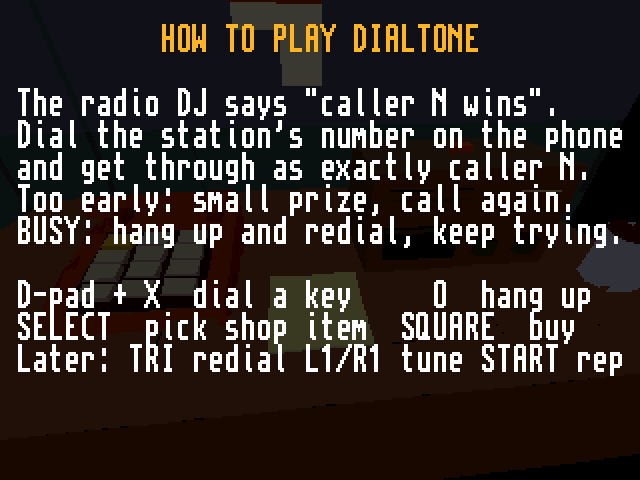
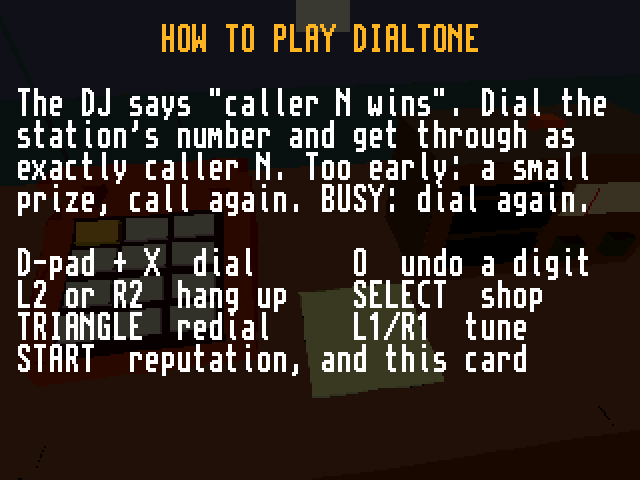
Shop panel clear of the toast row; manual and screenshots for the new layout

diff --git a/src/phone_scene.cpp b/src/phone_scene.cpp
@@ -57,8 +57,9 @@ static constexpr uint8_t ROW_COUNT = ROW_INTRO + INTRO_ROWS;
 // The toast row moves up above line 2 once there is one
 static constexpr int16_t c_rowY[ROW_INTRO] = {12, 28, 44, 208, 192, 192, 98, 114};
 static constexpr int16_t TOAST_Y_TWO_LINES = 176;
-static constexpr uint8_t SHOP_FIRST_ROW = ROW_INTRO + 4, SHOP_ROWS = 6; // y 76..156
-static constexpr int16_t SHOP_BAND_Y = 72, SHOP_BAND_H = 104;
+// a title, one row per entry and the next goal: y 60..156, clear of the toast at 176
+static constexpr uint8_t SHOP_FIRST_ROW = ROW_INTRO + 3;
+static constexpr int16_t SHOP_BAND_Y = 58, SHOP_BAND_H = 116;
 
 static constexpr int16_t TOP_BAND_H = 64, BANNER_Y = 92, BANNER_H = 42;
 static constexpr psyqo::Color c_ink = {.r = 40, .g = 20, .b = 12};
@@ -562,7 +563,9 @@ void PhoneScene::UpdateLineRow(uint8_t index) {
 	uint8_t row = index == 0 ? ROW_LINE1 : ROW_LINE2;
 	bool blink = m_flashTimer & 16;
 	char number[12];
-	FormatNumber(number, line.digits, line.digitCount);
+	// a line put down shows a blank number, whatever was half dialed on it
+	bool blank = line.state == LineState::Idle && line.outcome == Outcome::None;
+	FormatNumber(number, line.digits, blank ? 0 : line.digitCount);
 	// with one phone the number speaks for itself; with two, say which line
 	char label[4] = "";
 	if (m_sim.HasUpgrade(Upgrade::SecondLine)) {
@@ -921,7 +924,9 @@ void PhoneScene::frame() {
 			UpdateMenu();
 		}
 	} else {
-		DrawKeyDigits();
+		if (!m_shopOpen) {
+			DrawKeyDigits();
+		}
 		// the bottom band grows with what is in it: line 1, line 2 once bought, a toast while it lasts
 		bool twoLines = m_sim.HasUpgrade(Upgrade::SecondLine);
 		int16_t bottom = c_rowY[ROW_LINE1];

diff --git a/docs/manual.md b/docs/manual.md
@@ -13,17 +13,21 @@ move to a new area code and start over with a reputation.
 | --- | --- |
 | D-pad | move over the keypad |
 | X | dial the key under the cursor |
-| O | hang up every line that is dialing, ringing or busy |
+| O | take back the last digit you dialed |
+| L2 or R2 | hang up every line that is dialing, ringing or busy |
 | Triangle | redial the station (once you own the redial button) |
-| Select | step through the shop |
-| Square | buy what the shop row shows |
+| Select | open and close the shop |
 | L1 / R1 | tune the radio down / up (stations you have opened) |
 | START | the Reputation screen; it also closes the how-to-play card |
 
+The screen shows no button hints while you play; the card above has them, and "How to play" on
+the Reputation screen brings it back.
+
 ## A contest
 
-The top of the screen is the radio. `WANTS #6  SO FAR 2  $16  19s` means the DJ wants caller
-6, two people have got through, the prize is $16 and the contest closes in 19 seconds. Other
+The top of the screen is the radio. The first row is your cash and the number to call, the second
+is the DJ (who says the prize), and `Caller #6 wins   so far 2   19s` means the DJ wants caller 6,
+two people have got through and the contest closes in 19 seconds. Other
 listeners call in too, and every one of them who gets through moves the count on. If one of them
 reaches the number, they win and the contest closes. If nobody does before the clock runs out,
 the prize rolls over into the next contest. After a few seconds' break a new contest opens with a
@@ -31,8 +35,9 @@ new number.
 
 ![Dialing the station](img/dialing.png)
 
-Dial the station's number (it is on the second row) on the keypad. After the seventh digit the
-call connects, then it either rings or comes back busy. A ringing call reaches the DJ after a
+Dial the station's number (top right) on the keypad; the number you are dialing shows at the
+bottom. A wrong digit is not a lost call: O takes it back. After the seventh digit the call
+connects, then it either rings or comes back busy. A ringing call reaches the DJ after a
 second or two and you go on air as the next caller:
 
 - the right caller: you win the prize, and the banner says so;
@@ -49,27 +54,28 @@ the number. When the count is two short of it, everybody piles on and the lines 
 
 ## Your lines
 
-The two rows at the bottom say what each line is doing:
+The bottom row is your line: the number as you dial it, and a word on what it is doing. Once you
+own the second line it gets a row too, above the first, and each row starts with its line number.
 
 | Row says | Means |
 | --- | --- |
-| not bought yet | line 2 before you buy the second line |
-| free: dial the station now | idle, and a contest is open |
-| dialing / auto-dialing | digits going in, by you or by redial and the autodialer |
+| `___-____` | free (white while a contest is open) |
+| `555-01__` | digits going in; `auto-dialing` when redial or the autodialer is at it |
 | connecting | all seven digits in, the exchange is putting you through |
-| ringing the DJ... | you got a line, you will be on air in a moment |
-| BUSY | the station is engaged; hang up or wait and dial again |
-| WRONG NUMBER | a digit was wrong; the row after it shows the right number |
-| ON AIR: you #3, wants #6 | you are on air as caller 3, too early |
+| ringing... | you got a line, you will be on air in a moment |
+| BUSY | the station is engaged; wait for the tone to end and dial again |
+| WRONG NUMBER | a digit was wrong; check the number at the top |
+| ON AIR: #3 of #6 | you are on air as caller 3, the DJ wants 6: too early |
 | WINNER! | you were the one |
-| was busy: dial again | the last try was busy |
+| was busy, dial again | the last try was busy |
 | you #5, DJ wanted #6 | how close the last try came |
-| too late, contest over | you got through after the contest closed |
+| too late | you got through after the contest closed |
 
 ## The shop
 
-The shop row shows one thing at a time; Select steps to the next and Square buys it. The row is
-amber when you can afford it and grey when you cannot.
+Select opens the shop over the middle of the screen; the contest goes on behind it. Up and down
+pick, X or Square buys, Select or O closes it. A line is white or amber when you can afford it and
+grey when you cannot. The bottom line of the panel says what to save up for next.
 
 ![The shop and a stat toast](img/shop.png)
 
@@ -120,8 +126,8 @@ level 7 one, with Quick fingers and Luck at 5, won seven times.
 ## Stations
 
 The radio has four stations, each a wall: much bigger prizes, much bigger crowds. A station opens
-once you have earned enough in the current area code; the top row shows the next one and how far
-you are.
+once you have earned enough in the current area code; the shop shows the next one and how far you
+are, and a message says when one opens.
 
 | Station | Reach | Number | Prize | Wants caller | Busy | Opens at |
 | --- | --- | --- | --- | --- | --- | --- |
@@ -147,8 +153,8 @@ down. That is 1 point at $20,000, 4 at $320,000, 10 at $2 million and 100 at $20
 **New area code** asks twice, then pays out the points you have earned since the last move. The
 game stays paused on the Reputation screen so you can spend them; **Start in the new area code**
 (or START) then starts you over: cash, desk items, upgrades and station go back to the beginning.
-Reputation, perks and all-time earnings stay. The top row tells you when a move would pay
-(`START: +10 rep`).
+Reputation, perks and all-time earnings stay. Once every station is open, the
+contest row says between contests when a move would pay (`START: +10 rep`), and so does the shop.
 
 Reputation buys perks, and perks are kept forever:
 
@@ -172,7 +178,7 @@ boot and saves:
 - at the next break after you buy a perk.
 
 The memory card has the controller to itself while it writes, about three seconds, which is why
-saves wait for the break between contests; the round row says `SAVING` while it happens. The
+saves wait for the break between contests; the contest row says `saving` while it happens. The
 Reputation screen says when the last save was.
 
 With no card, an unformatted card or a damaged save, the game says so at boot and plays on without
